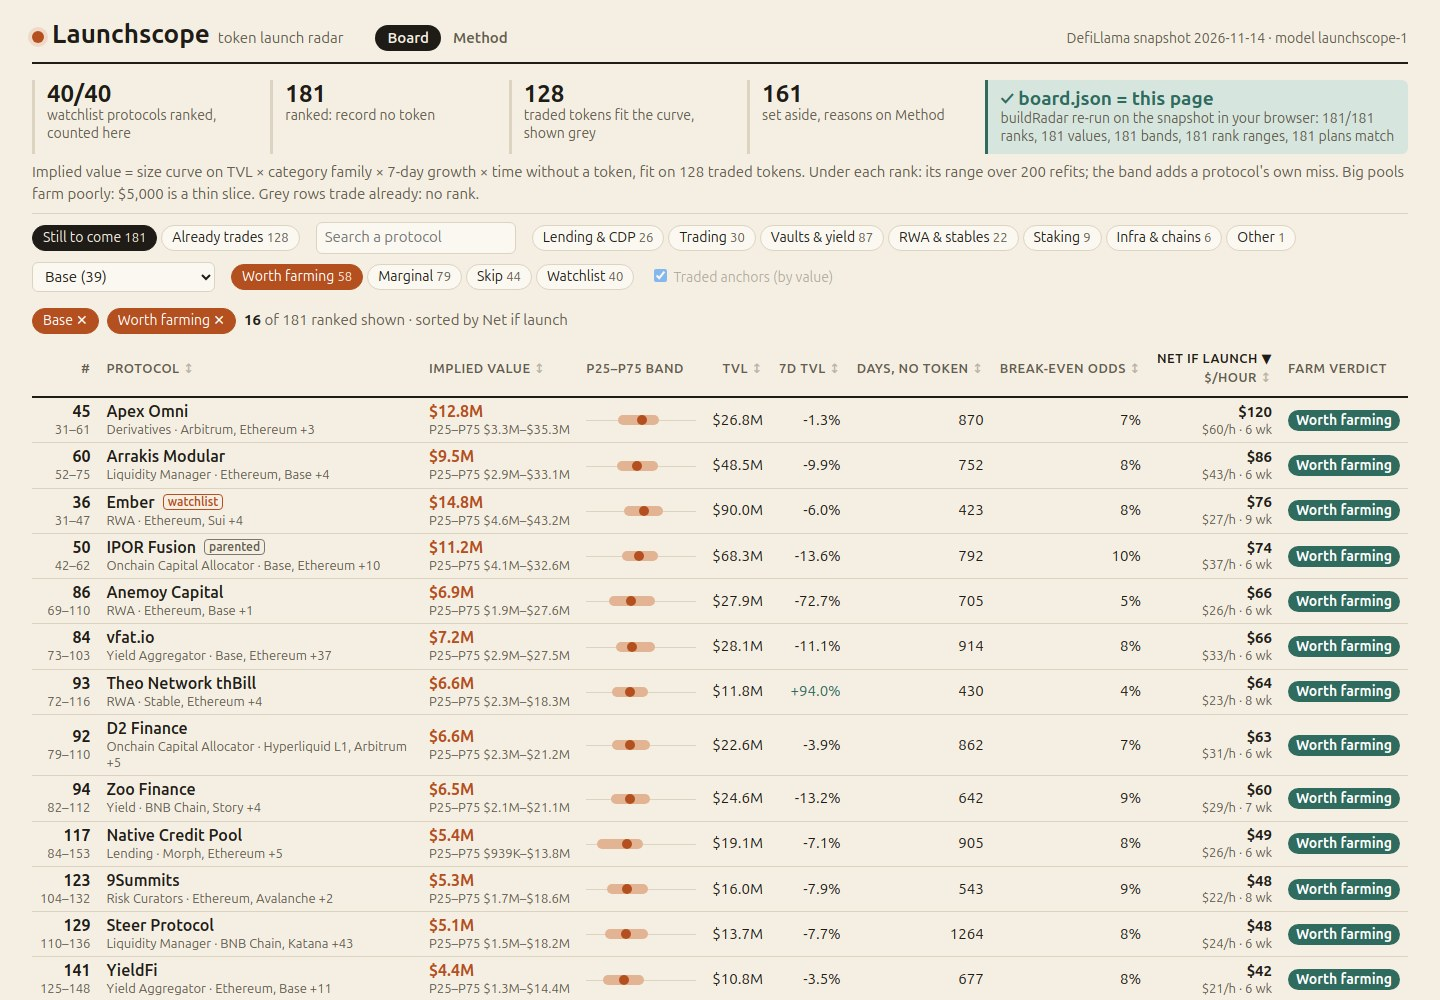
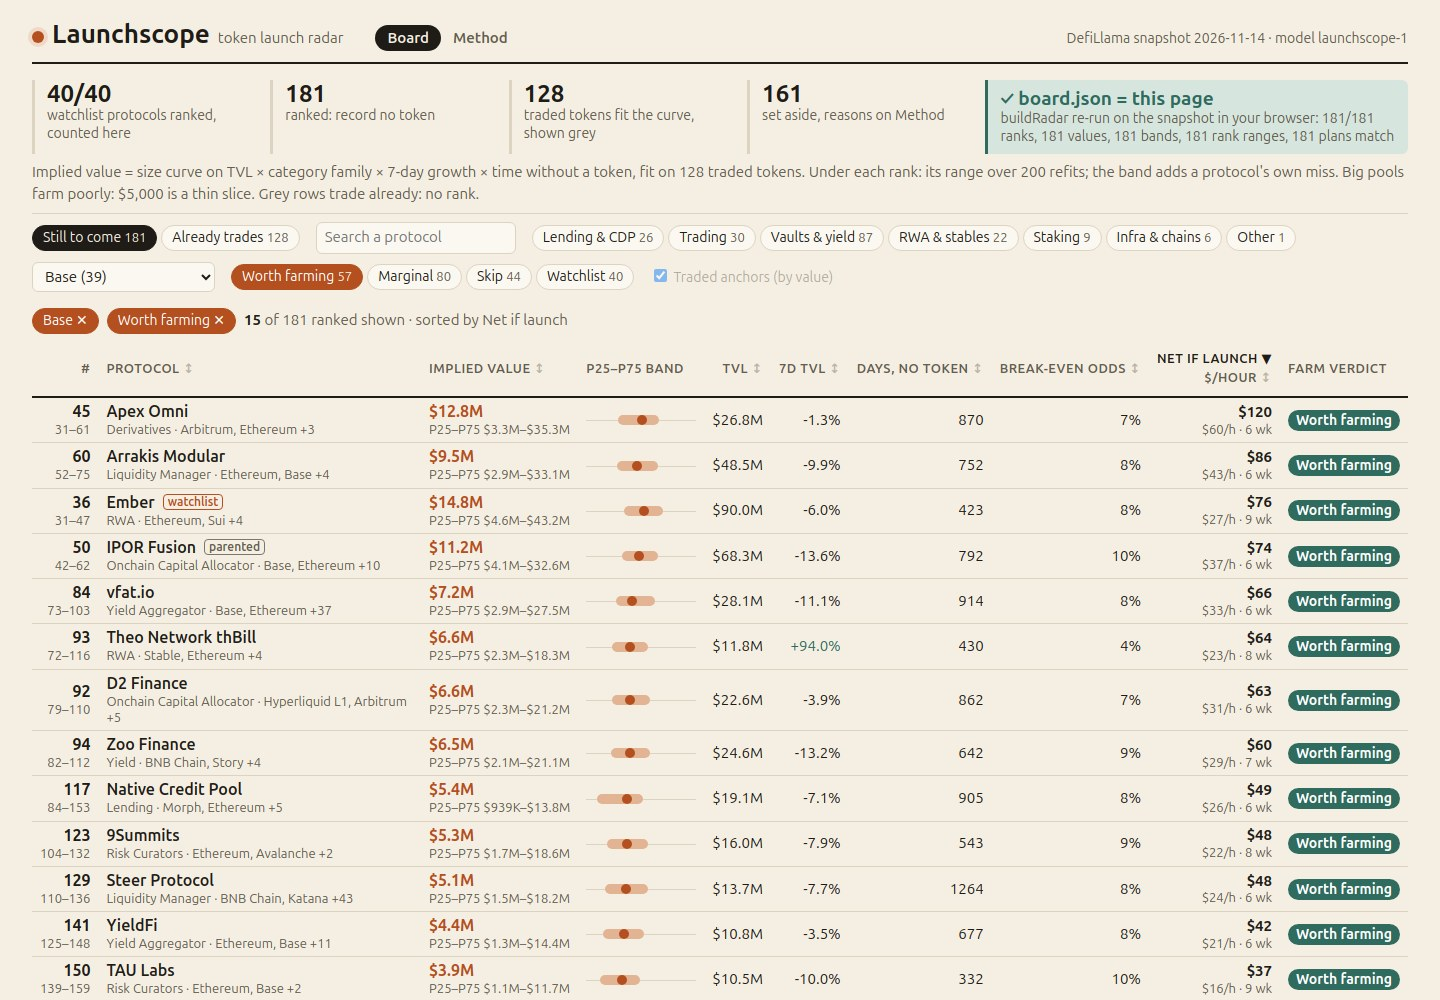
Plans: a 7-day TVL fall past -30% caps the verdict at Marginal, stated
farmPlan caps a 'worth farming' verdict at marginal when the 7-day TVL change
is below ASSUME.capDrop (-30%); the detail view says why (Anemoy Capital,
-72.7%), and the method view states every verdict rule: break-even odds cuts
of 10% and 25% and the cap.

diff --git a/dashboard/radar.js b/dashboard/radar.js
@@ -1,5 +1,4 @@
-/* Launchscope page: board, detail and method views. At load it runs model.js's buildRadar on the raw
- * snapshot in data.js and checks every row against board.json. */
+/* Launchscope page: board, detail, method. At load buildRadar re-runs on the raw snapshot; each row is checked. */
 (function () {
   'use strict';
   const D = globalThis.LAUNCHSCOPE_DATA;
@@ -56,7 +55,7 @@
     history.replaceState(null, '', back);
   }
 
-  /** The rows a reader asked for: family, chain, verdict, watchlist and a name search. */
+  /** Family, chain, verdict, watchlist and name filters. */
   function filterRows(rows, st) {
     const q = st.q.trim().toLowerCase();
     return rows.filter((r) => (!st.fam || r.iv.fam === st.fam) && (!st.chain || r.chains.includes(st.chain)) &&
@@ -68,7 +67,7 @@
     return rows.slice().sort((a, b) => { const x = key(a), y = key(b); return (x < y ? -1 : x > y ? 1 : 0) * sign || a.rank - b.rank; });
   }
 
-  /** Traded tokens as unranked anchors at market cap (value order only), matching the filters, about one per six rows. */
+  /** Traded tokens as unranked anchors at market cap, about one per six rows. */
   function anchorsFor(shown, st) {
     if (st.anchors !== '1' || st.sort !== 'value' || shown.length === 0 || st.verdict || st.watch || st.q) return [];
     const top = shown[0].iv.value * 1.5, bottom = shown[shown.length - 1].iv.value / 1.5;
@@ -116,7 +115,7 @@
       <td class="num" colspan="4">market ${(t.mcap_usd / t.tvl_usd).toFixed(2)}× TVL · our curve would say ${L.usd(L.impliedValue(t, M.fit, S.as_of).value)}</td></tr>`;
   }
 
-  /** The other side of the board: every token that trades, at its market cap, beside our curve's price for its record. */
+  /** Every token that trades: market cap beside our curve's price. */
   function tradedHtml(st) {
     const q = st.q.trim().toLowerCase();
     const list = M.traded.filter((t) => (!st.fam || L.familyOf(t.category) === st.fam) && (!st.chain || t.chains.includes(st.chain)) && (!q || t.name.toLowerCase().includes(q)))
@@ -188,7 +187,7 @@
 
   // -- the detail view
 
-  /** The value as an equation: the size curve at this TVL, times each multiplier, equals the value. */
+  /** The value as an equation: size curve x each multiplier. */
   function equationHtml(r) {
     const iv = r.iv;
     const tile = (big, label, m) => `<div class="tile ${m === undefined ? '' : m > 1.0005 ? 'up' : m < 0.9995 ? 'down' : ''}"><b>${big}</b><span>${label}</span></div>`;
@@ -219,7 +218,7 @@
       <text class="stopt" x="24" y="82">${plan.steps.findIndex((s) => s.kind === 'stop') + 1} · any day: stop if TVL closes under ${L.usd(plan.stopTvl)}</text><line class="stop" x1="24" x2="684" y1="88" y2="88"/></svg>`;
   }
 
-  /** One protocol: its value, how it is built, its band and rank range, peers, and its costed plan. */
+  /** One protocol: value, build-up, band, peers and costed plan. */
   function renderDetail(slug) {
     const r = M.rows.find((x) => x.slug === slug);
     if (!r) { location.hash = ''; return; }
@@ -241,7 +240,7 @@
           <p class="assume">Our estimates: gas ${L.usd(p.gas)} a transaction on ${esc(p.chain)}, ${L.usd(A.bridgeFee)} a bridge leg, T-bills ${A.tbillRate * 100}% less the deposit's assumed yield. Deposit grows with TVL (${L.usd(A.depositMin)}–${L.usd(A.depositMax)}); younger protocols are held longer; stop = twice the 7-day swing.</p>
         </section>
         <section class="card plan">
-          <h2>Farm plan <small>${esc(p.chain)} · ${L.usd(p.deposit)} · ${p.weeks} weeks</small><i class="verdict v-${p.verdict}">${L.VERDICT_LABEL[p.verdict]}</i></h2>
+          <h2>Farm plan <small>${esc(p.chain)} · ${L.usd(p.deposit)} · ${p.weeks} weeks</small><i class="verdict v-${p.verdict}">${L.VERDICT_LABEL[p.verdict]}</i></h2>${p.capped ? `<p class="note">Capped at Marginal: TVL ${pct(r.change_7d)} in 7 days, past the ${A.capDrop}% limit; the odds alone say worth farming.</p>` : ''}
           ${timelineSvg(p)}
           <table class="steps"><thead><tr><th>#</th><th>When</th><th>Step</th><th class="num">Cost</th><th class="num">Time</th></tr></thead><tbody>${steps}</tbody></table>
           <div class="totals"><div><span>Fees and gas</span><b>${L.usd(p.costs)}</b></div><div><span>Income forgone</span><b>${L.usd(p.capitalCost)}</b></div><div><span>Your time</span><b>${Math.round(p.minutes)} min</b></div><div><span>Slice if launch</span><b>${L.usd(p.slice)}</b></div><div><span>Break-even odds</span><b>${odds(p.breakEven)}</b></div><div><span>Net per hour</span><b>${L.usd(p.perHour)}</b></div></div>
@@ -267,7 +266,7 @@
   }
 
   function renderMethod() {
-    const loo = M.R.loo, f = M.fit, u = M.R.universe;
+    const loo = M.R.loo, f = M.fit, u = M.R.universe, A = L.ASSUME;
     const looRows = loo.map((v) => `<tr><td>${esc(v.label)}</td><td class="num"><b>${v.medianMiss.toFixed(2)}×</b></td><td class="num">${v.meanLogMiss.toFixed(3)}</td><td class="num">${Math.round(v.within3x * 100)}%</td><td class="num">${v.rankCorr.toFixed(2)}</td></tr>`).join('');
     const famN = {};
     M.traded.forEach((t) => { const k = L.familyOf(t.category); famN[k] = (famN[k] || 0) + 1; });
@@ -290,7 +289,8 @@
         <p>Size curve and family earn their place. Growth and seasoning do not cut the miss (${loo[3].meanLogMiss.toFixed(3)} vs ${loo[2].meanLogMiss.toFixed(3)}): traded TVL fell almost everywhere this week, and a traded token's age is not time without a token. So both are bounded priors: growth tilts value by half the 7-day change (×${L.MODEL.growthMin}–×${L.MODEL.growthMax}); seasoning discounts a new protocol up to ${L.MODEL.seasonDepth * 100}%, fading over ${L.MODEL.seasonDays} days. A ${loo[3].medianMiss.toFixed(1)}× median miss is why every row shows a band. Rank corr. tests the ranking itself (Spearman's rho inside 8 held-out folds): about ${loo[0].rankCorr.toFixed(1)} for every variant, so order comes from TVL; the extras cut the miss, not the rank error.</p>
         <h2>Category family offsets <small>mean miss, clipped at 10×, shrunk by ${L.MODEL.familyShrinkK} pseudo-tokens (traded tokens)</small></h2><p>${fams}</p>
         <h2>From ${c.protocols} protocols to ${c.ranked} ranks</h2>
-        <p>${c.traded} trade (fit and anchors) · ${c.recorded} record a token with no market cap (not ranked) · ${c.ranked + c.set_aside} record no token: ${c.ranked} ranked, ${c.set_aside} set aside as ${Object.keys(why).map((k) => `${esc(k)} (${why[k]})`).join(', ')}.</p></section></div>`;
+        <p>${c.traded} trade (fit and anchors) · ${c.recorded} record a token with no market cap (not ranked) · ${c.ranked + c.set_aside} record no token: ${c.ranked} ranked, ${c.set_aside} set aside as ${Object.keys(why).map((k) => `${esc(k)} (${why[k]})`).join(', ')}.</p>
+        <h2>Farm verdicts</h2><p>Worth farming at break-even odds of ${A.farmOdds * 100}% or less (it pays if 1 hold in ${1 / A.farmOdds} sees a launch), marginal to ${A.marginalOdds * 100}%, else skip. A 7-day TVL fall past ${A.capDrop}% caps it at marginal (${M.rows.filter((r) => r.plan.capped).length} row here).</p></section></div>`;
   }
 
   // -- routing

diff --git a/dashboard/model.js b/dashboard/model.js
@@ -30,6 +30,7 @@
     depositPerTvl: 1 / 10000,
     depositMin: 500,
     depositMax: 5000,
+    capDrop: -30, // a 7-day TVL fall past -30% caps the verdict at marginal
     gasDefault: 0.5, // a chain missing from the tiers below
     gas: {},
   };
@@ -226,7 +227,7 @@
 
   // -- honesty: out-of-sample checks and the bootstrap
 
-  // Nested variants, each adding one part: [key, label, fitted slope, family offsets, priors].
+  // Nested variants: [key, label, slope, families, priors].
   const VARIANTS = [['multiple', 'TVL x one multiple', 0, 0, 0], ['curve', '+ size curve (slope b)', 1, 0, 0],
     ['family', '+ category family', 1, 1, 0], ['full', '+ growth & seasoning priors', 1, 1, 1]]
     .map(([key, label, slope, families, priors]) => ({ key, label, slope: !!slope, families: !!families, priors: !!priors }));
@@ -306,10 +307,10 @@
   const stopDropPct = (change7d) => (change7d === null ? 20 : clamp(Math.round(2 * Math.abs(change7d)), 10, 35));
   const roundDeposit = (x) => (x < 1000 ? Math.round(x / 50) * 50 : Math.round(x / 100) * 100);
 
-  // DefiLlama chain labels a reader could take for a company, in plain words.
+  // Chain labels a reader could take for a company.
   const CHAIN_NAME = { Binance: 'BNB Chain', Ripple: 'XRP Ledger', xDai: 'Gnosis' };
   const chainName = (c) => CHAIN_NAME[c] || c;
-  // Chains with no dollar stablecoin to speak of are funded in their own coin; staking uses coin you hold.
+  // Chains with no dollar stablecoin, and staking, use the native coin.
   const NATIVE_COIN = { Bitcoin: 'BTC', CORE: 'BTC', BSquared: 'BTC', Mezo: 'BTC', 'Babylon Genesis': 'BTC', Stacks: 'BTC', RSK: 'BTC', Bittensor: 'TAO', Qubic: 'QUBIC' };
   function fundingAsset(p, chain) {
     if (/BTC$/.test(p.category || '')) return 'BTC';
@@ -382,13 +383,15 @@
     const net = slice - costs - capitalCost;
     const breakEven = (costs + capitalCost) / slice;
     const odds = Math.round(breakEven * 100); // the verdict reads the odds as shown
-    const verdict = odds <= ASSUME.farmOdds * 100 ? 'farm' : odds <= ASSUME.marginalOdds * 100 ? 'marginal' : 'skip';
-    return { chain: cn, gas, asset, deposit, weeks, drop, stopTvl, steps, costs, minutes, carry, capitalCost, slice, net, breakEven, verdict, perHour: net / (minutes / 60) };
+    const byOdds = odds <= ASSUME.farmOdds * 100 ? 'farm' : odds <= ASSUME.marginalOdds * 100 ? 'marginal' : 'skip';
+    const capped = byOdds === 'farm' && p.change_7d < ASSUME.capDrop; // null (no 7-day figure) never caps
+    const verdict = capped ? 'marginal' : byOdds;
+    return { chain: cn, gas, asset, deposit, weeks, drop, stopTvl, steps, costs, minutes, carry, capitalCost, slice, net, breakEven, verdict, capped, perHour: net / (minutes / 60) };
   }
 
   const VERDICT_LABEL = { farm: 'Worth farming', marginal: 'Marginal', skip: 'Skip' };
 
-  /** Break-even odds: the chance a token launches, with a snapshot, inside the hold, at which the plan pays. */
+  /** What the break-even odds mean for this plan. */
   function oddsText(plan, value) {
     return plan.breakEven > 1 ? `no launch chance covers it (it would need a launch worth ${usd(value * plan.breakEven)})` : `the chance a token launches, with a snapshot, inside the ${plan.weeks}-week hold`;
   }

diff --git a/dashboard/style.css b/dashboard/style.css
@@ -40,8 +40,7 @@ td { padding: 4px 8px; border-bottom: 1px solid var(--rule); }
 .kpis span { display: block; font-size: 14px; line-height: 1.3; }
 .kpis .check { border-left-color: var(--plan); background: var(--plan-soft); padding: 8px 12px; border-radius: 0 6px 6px 0; }
 .kpis .check b { font-size: 19px; color: var(--plan); }
-.kpis .check.bad { border-left-color: var(--red); background: #f2d9d3; }
-.kpis .check.bad b { color: var(--red); }
+.kpis .check.bad, .kpis .check.bad b { border-color: var(--red); background: #f2d9d3; color: var(--red); }
 .explain { margin: 8px 0; }
 
 /* toolbar */
@@ -93,7 +92,7 @@ td { padding: 4px 8px; border-bottom: 1px solid var(--rule); }
 .card > h2:first-child { margin-top: 0; }
 .facts { display: grid; grid-template-columns: 1.3fr 1fr 1fr; gap: 16px; align-items: end; }
 .facts span, .totals span, .tile span { display: block; line-height: 1.25; }
-.facts b, .totals b, .eq i { font-size: 18px; }
+.facts b, .totals b, .eq i { font-size: 18px; white-space: nowrap; }
 .facts .big b { font-size: 44px; line-height: 1.05; color: var(--accent); }
 .eq { display: flex; gap: 4px; }
 .eq i { font-style: normal; align-self: center; }

diff --git a/dashboard/index.html b/dashboard/index.html
@@ -3,7 +3,7 @@
 <head>
 <meta charset="utf-8">
 <meta name="viewport" content="width=device-width, initial-scale=1">
-<title>Launchscope: protocols that record no token, ranked by our model's implied value</title>
+<title>Launchscope: token launch radar</title>
 <!-- Note to the judge: model.js is the model; main.ts runs it for board.json, this page re-runs it and checks every row. -->
 <link rel="stylesheet" href="style.css">
 </head>
